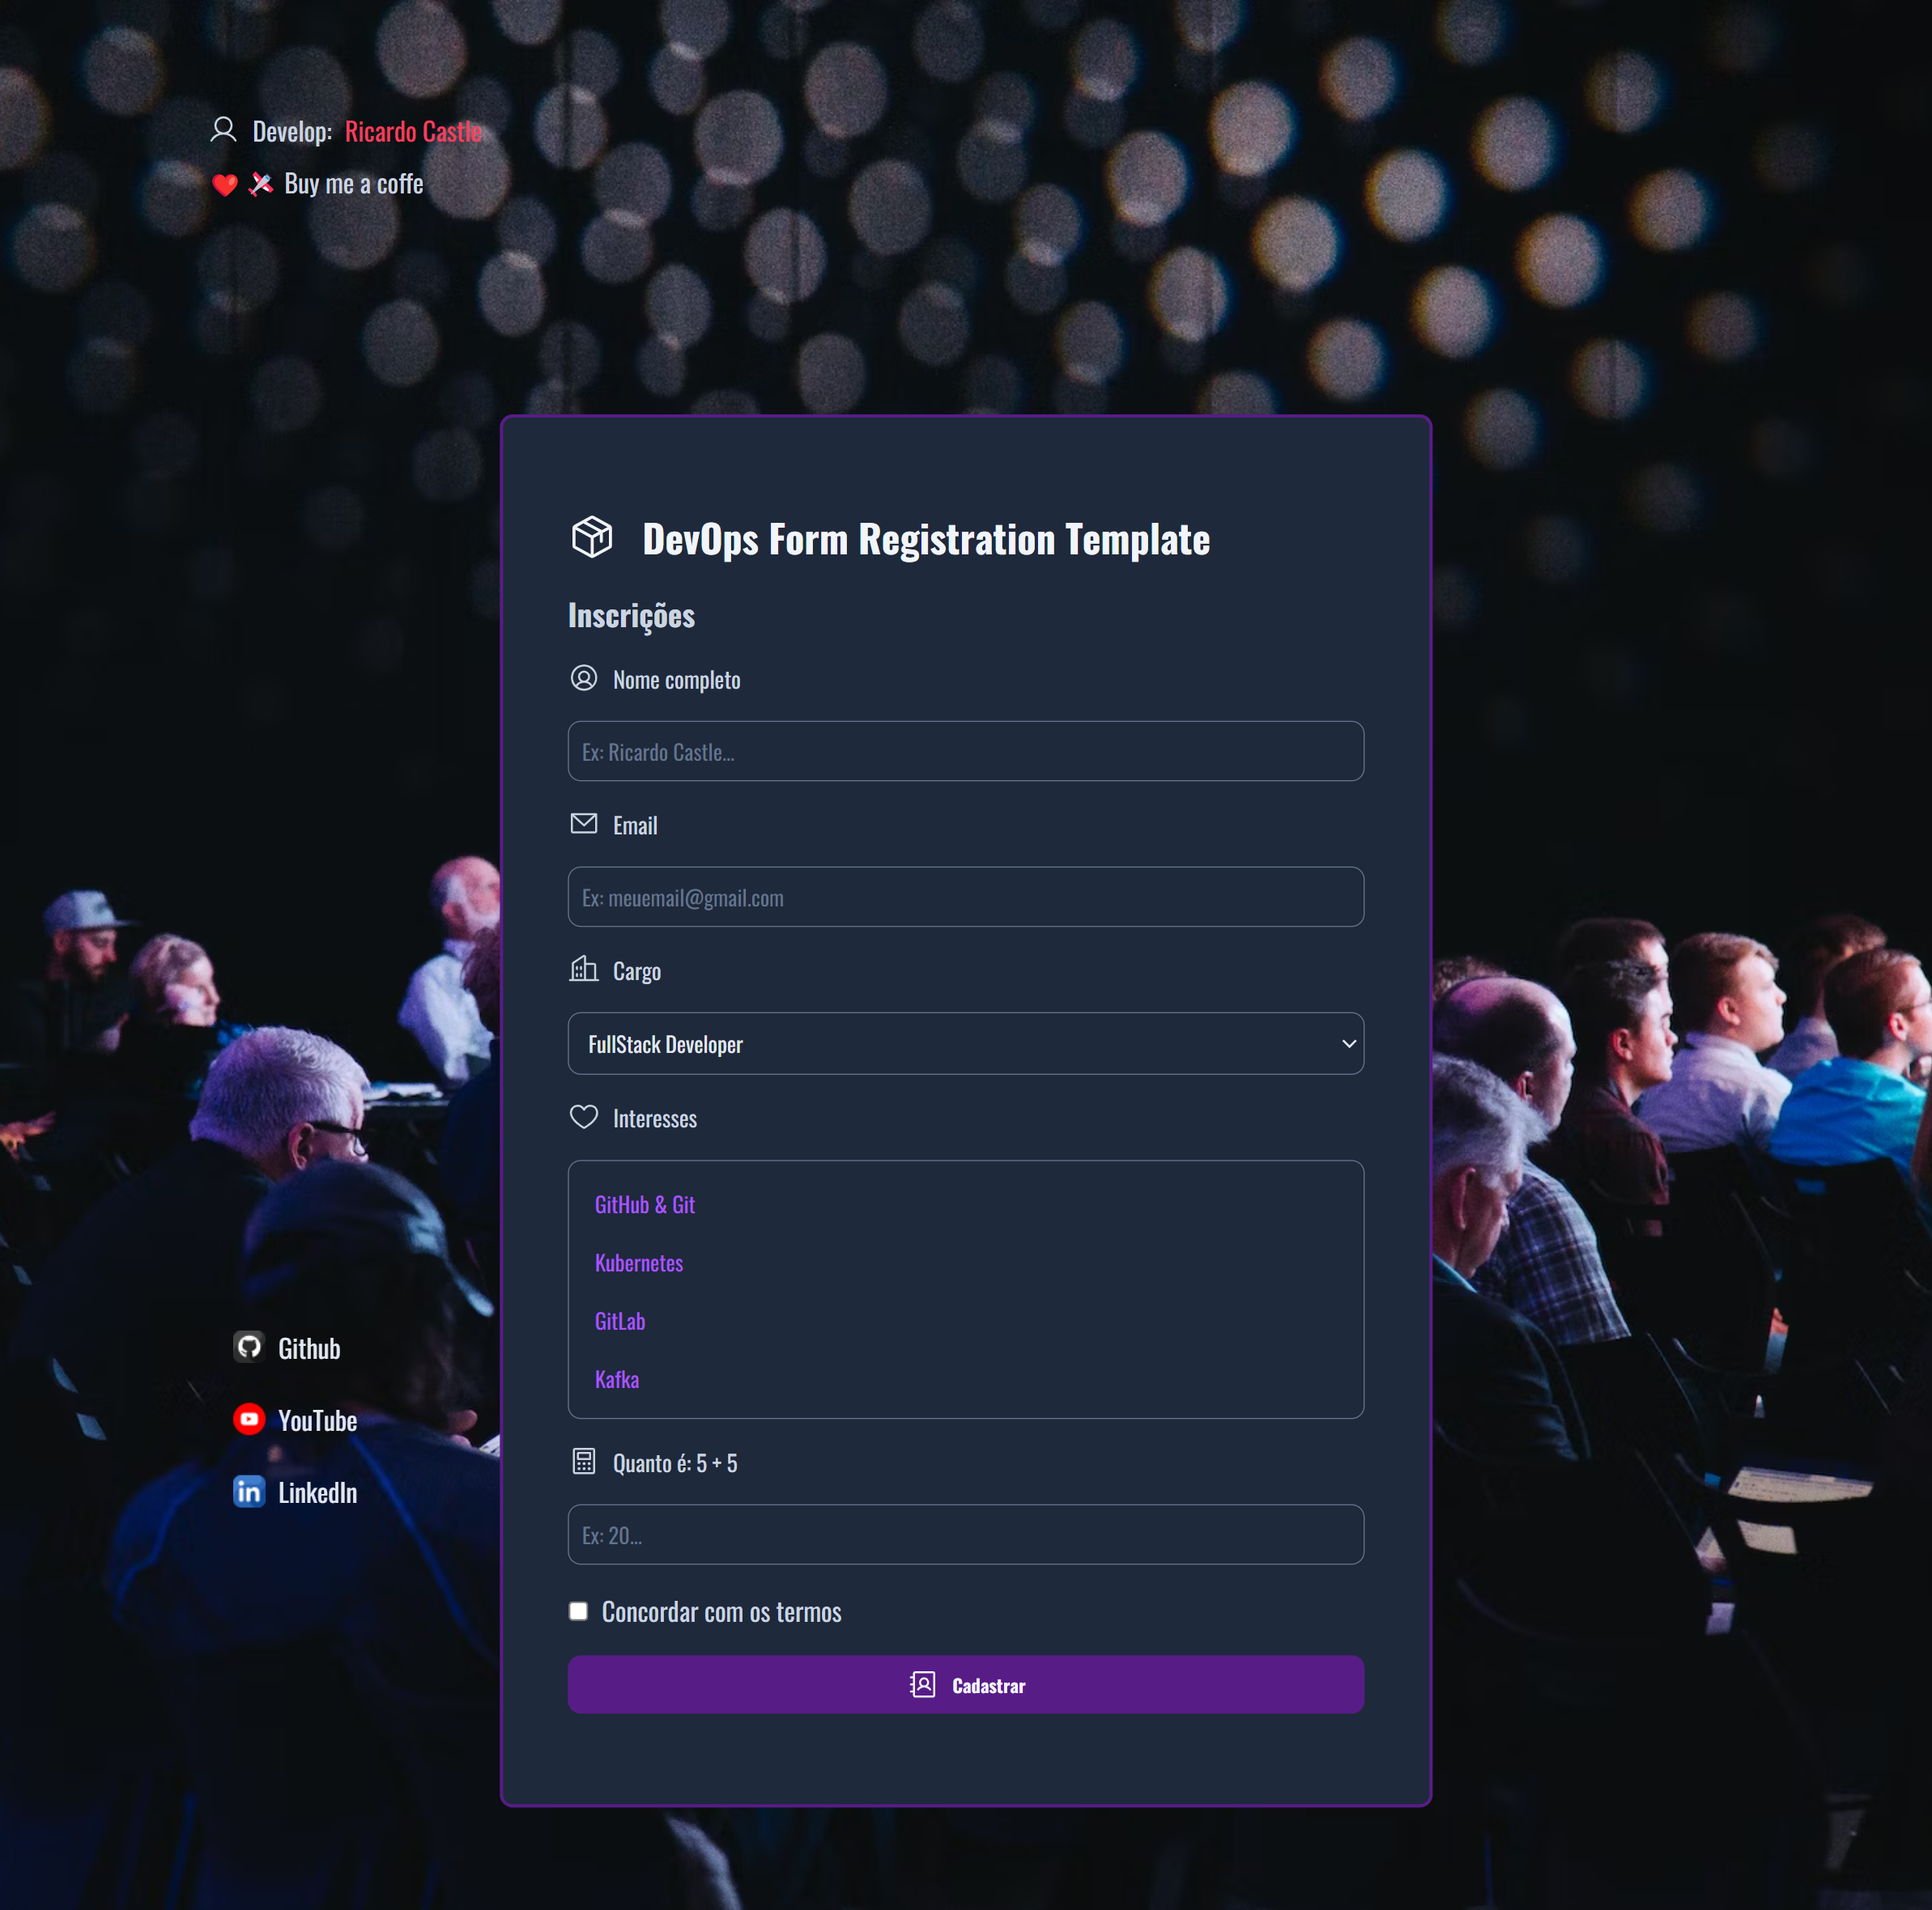
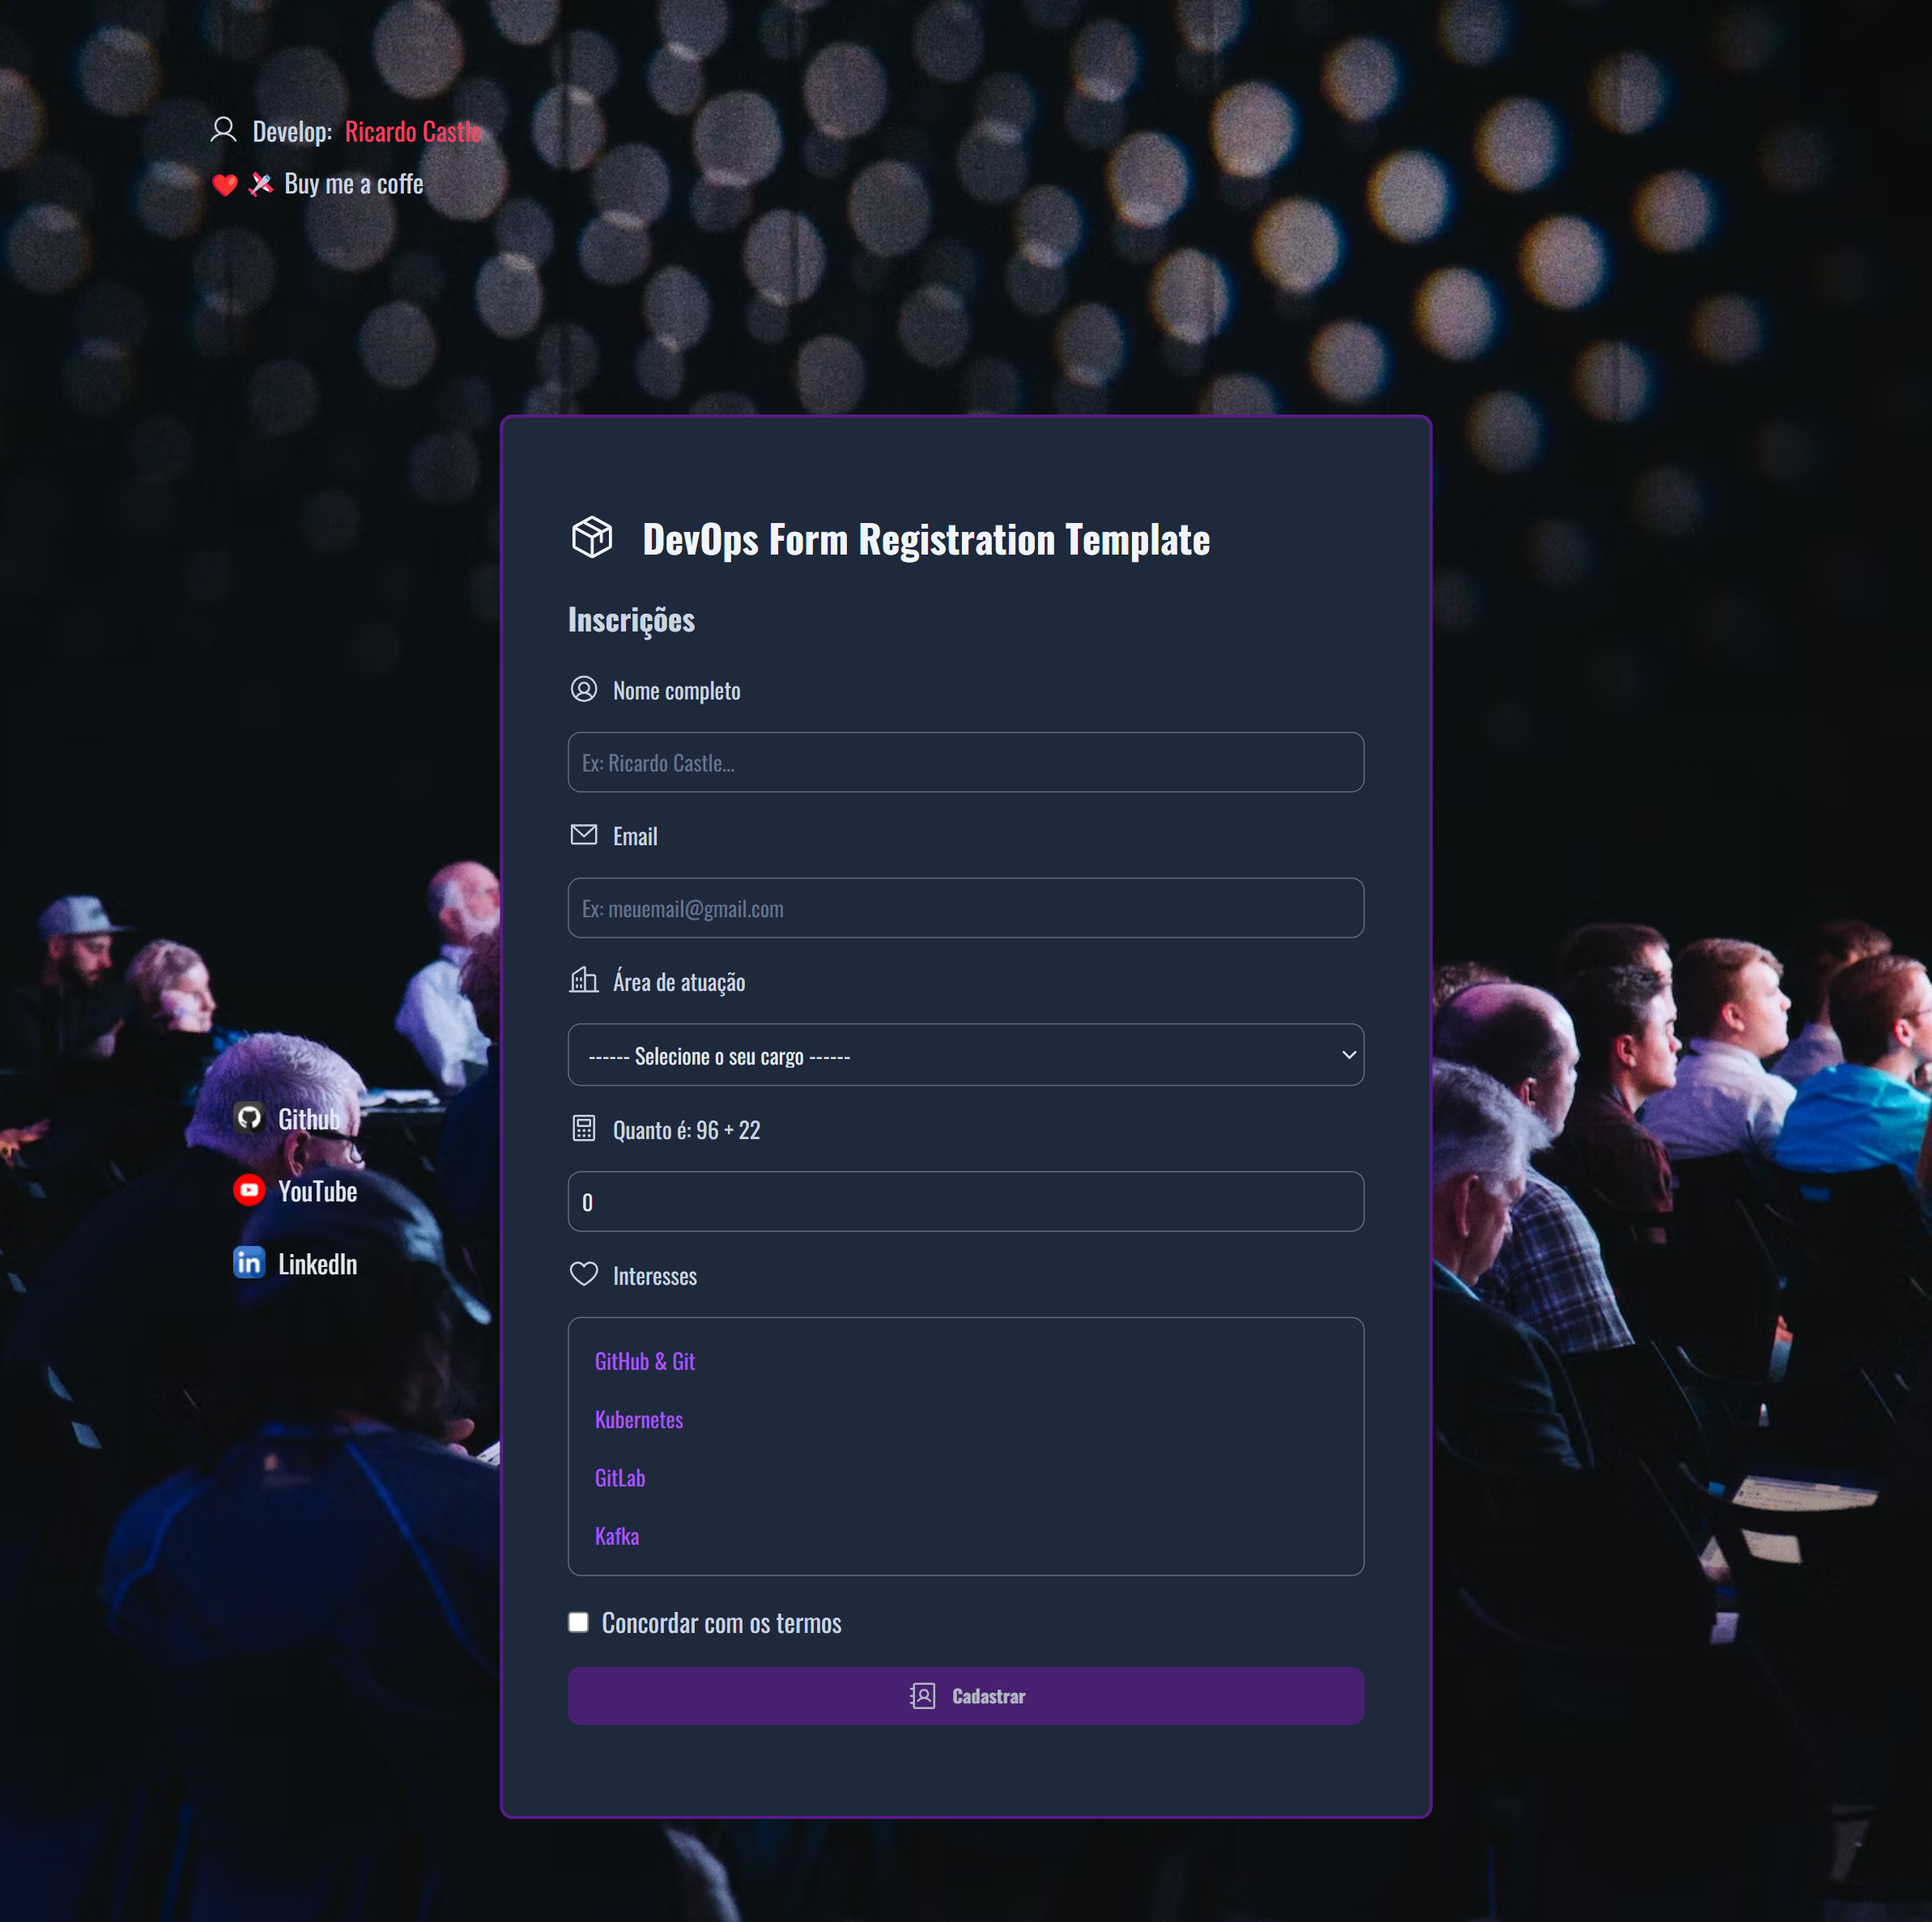
Update

diff --git a/src/pages/Home/index.tsx b/src/pages/Home/index.tsx
@@ -29,16 +29,16 @@ const createNewRegisterSchema = zod.object({
     .string()
     .min(1, "Preencha o campo por favor...")
     .email("Digite um email válido..."),
-  office: zod.string().min(1, "Preencha o campo por favor..."),
+  office: zod.string().min(1, "Selecione sua área de atuação..."),
   numberVerification: zod
     .number({ invalid_type_error: "Informe apenas números" })
     .min(1, "Informe pelo menos um valor..."),
   checkValidation: zod.boolean({
-    
+
     required_error:
       "Por favor, confirme com os termos de uso para continuar...",
   }),
-  interest: zod.string().array().min(1, "Selecione pelos 2 interesses"),
+  interest: zod.string().array().min(1, "Selecione pelos menos 2 interesses"),
 });
 
 export function Home() {
@@ -126,7 +126,7 @@ export function Home() {
         <FormGroup>
           <label htmlFor="office">
             <Buildings size={20} />
-            Cargo
+            Área de atuação
           </label>
           <SimpleSelect id="office" {...register("office")}>
             <option value="">------ Selecione o seu cargo ------</option>
@@ -205,8 +205,9 @@ export function Home() {
             <AddressBook size={20} />
             Cadastrar
           </button>
-        </FormCheck>
+        </FormCheck>    
       </FormContainer>
+
     </HomeContainer>
   );
 }

diff --git a/README.md b/README.md
@@ -1,17 +1,16 @@
-# DevOps Form Register
+# DevOps Form Registration
 
-
-##### 🟣 Do you need a simple form to register your member on the web? You can use this template for your application.
+##### 🟣 Do you need a simple form to register your members on the web? You can use this template for your application.
 
 ### Overview
 ---
 
-<img src="https://github.com/ricardocastl3/nodeproduct/blob/master/src/assets/mobile01.png?raw=true" width="200">
+<img src="https://github.com/ricardocastl3/devops-form/blob/main/src/assets/overview1.png" width="500">
 
 ### Invalid Form
 ---
 
-<img src="https://github.com/ricardocastl3/nodeproduct/blob/master/src/assets/mobile02.png?raw=true" width="200">
+<img src="https://github.com/ricardocastl3/devops-form/blob/main/src/assets/overview2.png" width="500">
 
 
 ## 🚀 Get Started
@@ -23,7 +22,7 @@ These instructions will allow you to get a copy of the project up and running on
 The first step you'll need to get started is downloading the project.
 
 ```
-git clone https://github.com/ricardocastl3/devops-formregister
+git clone https://github.com/ricardocastl3/devops-form
 ```
 
 ### 📋 Install Dependences
@@ -36,7 +35,6 @@ npm install
 ```
 npm run dev
 ```
-
 
 ## 🛠 Tools
 
@@ -53,7 +51,6 @@ Libraries| Description
 For the development of the platform we have:
 
 * **Developer and Documentation** - [Ricardo Castle](https://www.linkedin.com/in/ricardocastles/)
-
 
 ## 🎁 Expressions of gratitude
 
